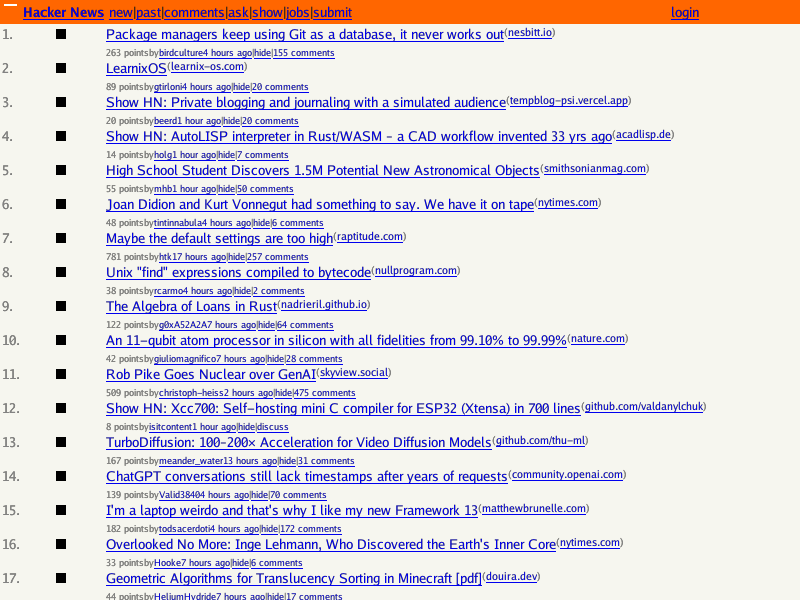
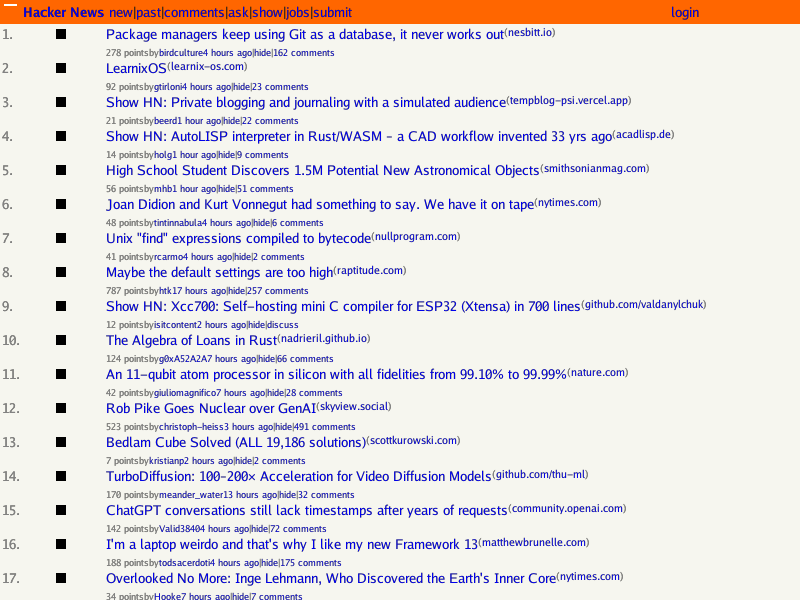
Remove text-decoration from link UA styles to allow author override

diff --git a/style/useragent.go b/style/useragent.go
@@ -40,7 +40,10 @@ ul, ol { margin: 1em 0; padding-left: 40px; }
 li { display: list-item; }
 
 /* Links - CSS 2.1 §16.3.1 */
-a { color: #0000EE; text-decoration: underline; }
+/* Note: Modern browsers do not apply text-decoration in UA stylesheet.
+   Text decoration for links is applied via a different mechanism that
+   allows author styles to easily override it. */
+a { color: #0000EE; }
 a:visited { color: #551A8B; }
 
 /* Text formatting elements - HTML5 §10.3.1 */
